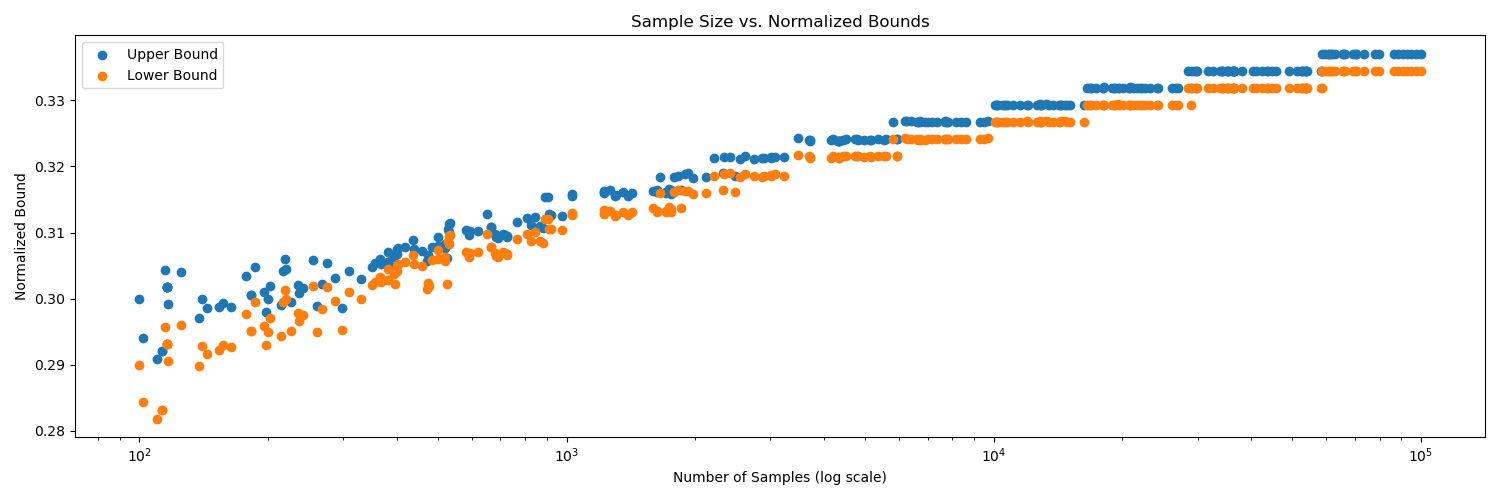
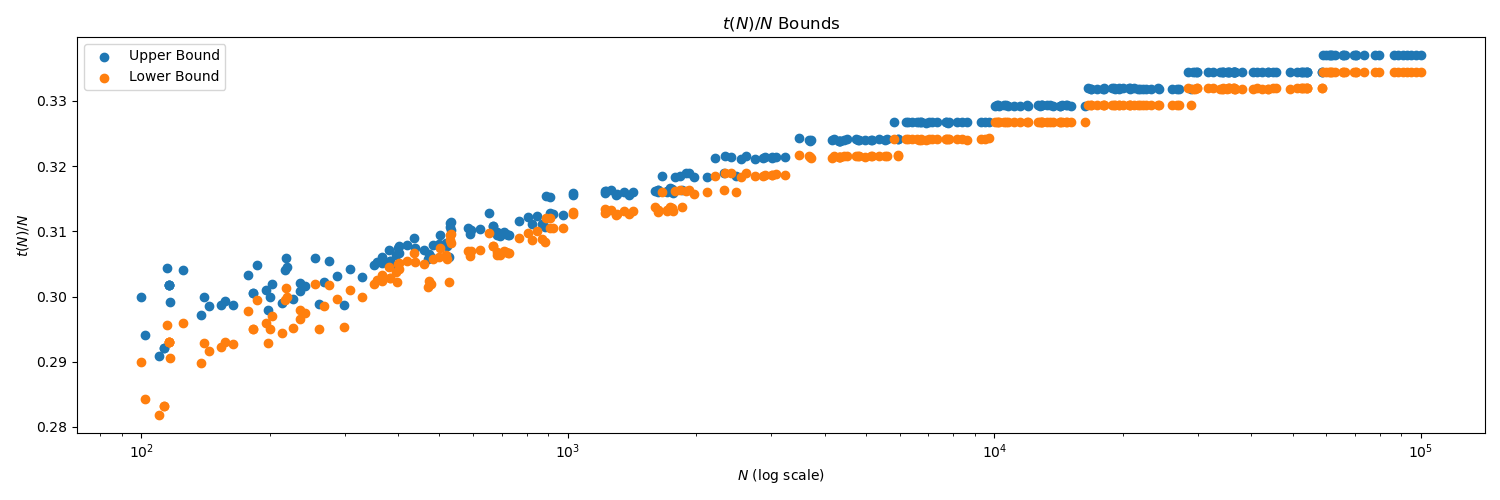
Small terminology fixes

diff --git a/src/linprog/bounding_data.py b/src/linprog/bounding_data.py
@@ -56,9 +56,9 @@ plt.figure(figsize=(15, 5))
 plt.scatter(samples, bounds[:, 1], label='Upper Bound')
 plt.scatter(samples, bounds[:, 0], label='Lower Bound')
 plt.xscale('log')
-plt.xlabel('Number of Samples (log scale)')
-plt.ylabel('Normalized Bound')
-plt.title('Sample Size vs. Normalized Bounds')
+plt.xlabel('$N$ (log scale)')
+plt.ylabel('$t(N)/N$')
+plt.title('$t(N)/N$ Bounds')
 plt.legend()
 plt.tight_layout()
 plt.savefig("output.png")
